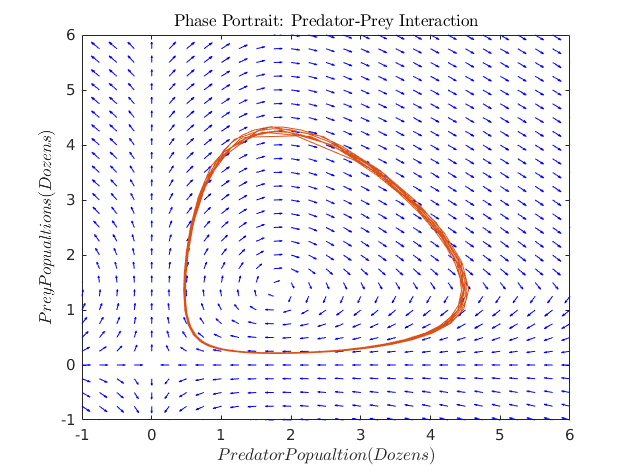
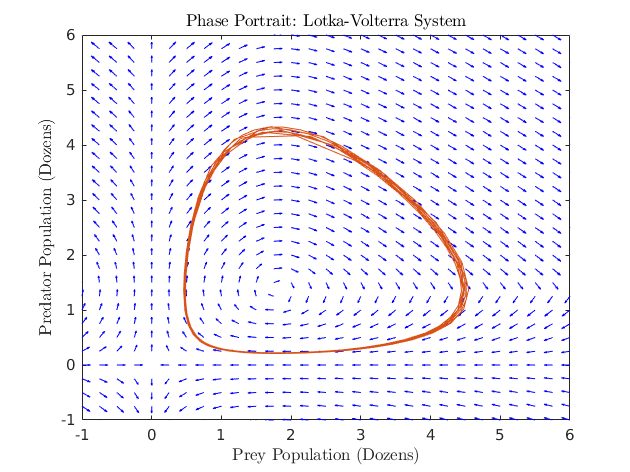
minor fixes 2

Changed region(s): [[0.2714, 0.0297, 0.754, 0.0593], [0.0603, 0.2373, 0.0905, 0.7119], [0.3317, 0.9492, 0.6937, 0.9788]]

diff --git a/Models/Project1.m b/Models/Project1.m
@@ -68,8 +68,8 @@ yline(z1)
 yline(z2)
 xlabel('Time (years)')
 ylabel('Population')
-legend('Euler: h= 0.5', 'Euler: h= 0.1', 'Euler: h = 0.01', ...
-    'Actual Solution')
+legend('Euler: P(0)=84', 'Euler: P(0)=24', 'Euler: P(0)=18', ...
+    'Euler: P(0)=6')
 
 
 %%
@@ -135,14 +135,14 @@ f4 = @lotkavolterraLogistic;
 figure
 flow
 hold on
-xline(0, 'black')
-yline(0,'red')
-yline((1.5/1.1), 'black');
+xline(0, 'red')
+yline(0,'black')
+yline((1.5/1.1), 'red');
 legend('Slope Field', 'h-nullcline', 'v-nullcline')
 % anonymous function for one of the clines
 f5 = @(x2) ((2.5-(2.5*0.5*x2))/1.4);
 hnull = arrayfun(f5, linspace(-1, 6, 100));
-plot(P1(:,1), P1(:,2), P2(:,1), P2(:,2), linspace(-1, 6, 100), hnull, 'red');
+plot(P1(:,1), P1(:,2), P2(:,1), P2(:,2), linspace(-1, 6, 100), hnull, 'black');
 
 
 % plot components in time
